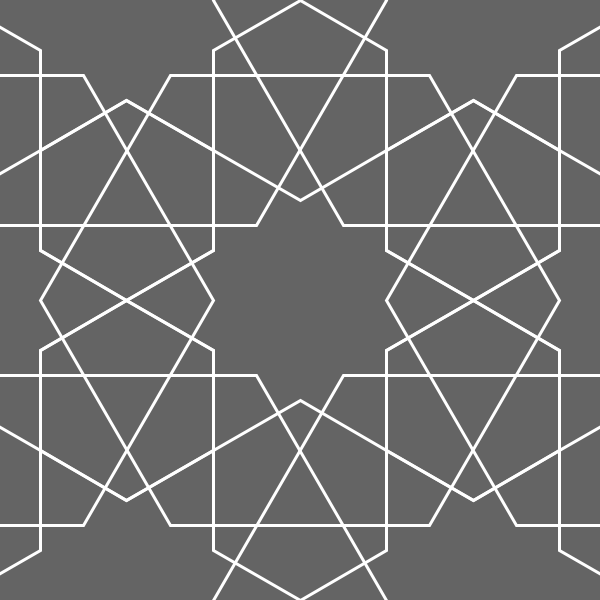
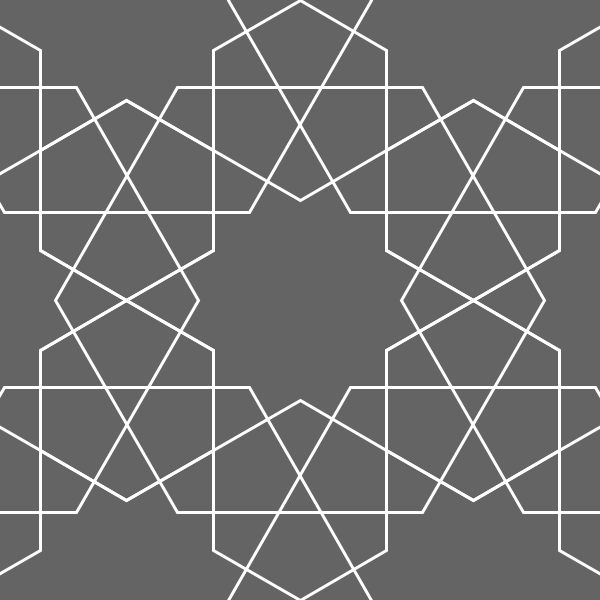
update 26

Changed region(s): [[0.0, 0.0, 1.0, 1.0]]

diff --git a/2024/sketch_2024_08_26/008/008.py b/2024/sketch_2024_08_26/008/008.py
@@ -12,22 +12,16 @@ def draw():
     #print(RU := mouse_x, R := mouse_y)
     RU = R = 200
     r = R * sqrt(3) / 2
-    rbh =  r * sqrt(2) 
-#    print(rbh)
-#     stroke(255, 60)
-#     circle(300, 300, rbh)
-#     circle(300, 300, rbh - 43)
-    stroke(255)
     unit(300, 300, RU)
     unit(300 + r * 2, 300, RU)
     unit(300 - r * 2, 300, RU)
-    hexagon(300 + r, 300 - R * 3 / 2, rbh, False)
-    hexagon(300 - r, 300 - R * 3 / 2, rbh, False)
-    hexagon(300 + r, 300 + R * 3 / 2, rbh, False)
-    hexagon(300 - r, 300 + R * 3 / 2, rbh, False)
-    hexagon(300, 300, rbh, False)
-    hexagon(300 + r * 2, 300, rbh, False)
-    hexagon(300 - r * 2, 300, rbh, False)
+    hexagon(300 + r, 300 - R * 3 / 2, r * 3 / 2, False)
+    hexagon(300 - r, 300 - R * 3 / 2, r * 3 / 2, False)
+    hexagon(300 + r, 300 + R * 3 / 2, r * 3 / 2, False)
+    hexagon(300 - r, 300 + R * 3 / 2, r * 3 / 2, False)
+    hexagon(300, 300, r * 3 / 2, False)
+    hexagon(300 + r * 2, 300, r * 3 / 2, False)
+    hexagon(300 - r * 2, 300, r * 3 / 2, False)
 
 
 
@@ -49,10 +43,7 @@ def hex_points(x, y, cr, pointy=True):
            for i in range(6)]
 
 def key_pressed():
-    if key == 'S':
-        save_snapshot_and_code()
-    elif key == 's':
-        save(__file__[:-3]+'.png')
+    save_snapshot_and_code()
     
 def save_snapshot_and_code():
     import shutil

diff --git a/2024/sketch_2024_08_26/009/009.py b/2024/sketch_2024_08_26/009/009.py
@@ -12,20 +12,17 @@ def draw():
     #print(RU := mouse_x, R := mouse_y)
     RU = R = 200
     r = R * sqrt(3) / 2
-    rbh =  r * sqrt(2) 
-#    print(rbh)
-#     stroke(255, 60)
-#     circle(300, 300, rbh)
-#     circle(300, 300, rbh - 43)
-    stroke(255)
+    rbh =  r * sqrt(3) / 4 #r * 3 / 2
     unit(300, 300, RU)
     unit(300 + r * 2, 300, RU)
     unit(300 - r * 2, 300, RU)
+    stroke(0, 255, 0)
     hexagon(300 + r, 300 - R * 3 / 2, rbh, False)
     hexagon(300 - r, 300 - R * 3 / 2, rbh, False)
     hexagon(300 + r, 300 + R * 3 / 2, rbh, False)
     hexagon(300 - r, 300 + R * 3 / 2, rbh, False)
-    hexagon(300, 300, rbh, False)
+    stroke(255, 0, 0)
+    hexagon(300, 300, r * 3 / 2, False)
     hexagon(300 + r * 2, 300, rbh, False)
     hexagon(300 - r * 2, 300, rbh, False)
 
@@ -49,10 +46,7 @@ def hex_points(x, y, cr, pointy=True):
            for i in range(6)]
 
 def key_pressed():
-    if key == 'S':
-        save_snapshot_and_code()
-    elif key == 's':
-        save(__file__[:-3]+'.png')
+    save_snapshot_and_code()
     
 def save_snapshot_and_code():
     import shutil

diff --git a/2024/sketch_2024_08_26/010/010.py b/2024/sketch_2024_08_26/010/010.py
@@ -12,20 +12,17 @@ def draw():
     #print(RU := mouse_x, R := mouse_y)
     RU = R = 200
     r = R * sqrt(3) / 2
-    rbh =  r * sqrt(2) 
-#    print(rbh)
-#     stroke(255, 60)
-#     circle(300, 300, rbh)
-#     circle(300, 300, rbh - 43)
-    stroke(255)
+    rbh =  r * sqrt(3) / 4 #r * 3 / 2
     unit(300, 300, RU)
     unit(300 + r * 2, 300, RU)
     unit(300 - r * 2, 300, RU)
+    stroke(0, 255, 0)
     hexagon(300 + r, 300 - R * 3 / 2, rbh, False)
     hexagon(300 - r, 300 - R * 3 / 2, rbh, False)
     hexagon(300 + r, 300 + R * 3 / 2, rbh, False)
     hexagon(300 - r, 300 + R * 3 / 2, rbh, False)
-    hexagon(300, 300, rbh, False)
+    stroke(255, 0, 0)
+    hexagon(300, 300, r * 3 / 2, False)
     hexagon(300 + r * 2, 300, rbh, False)
     hexagon(300 - r * 2, 300, rbh, False)
 
@@ -49,10 +46,7 @@ def hex_points(x, y, cr, pointy=True):
            for i in range(6)]
 
 def key_pressed():
-    if key == 'S':
-        save_snapshot_and_code()
-    elif key == 's':
-        save(__file__[:-3]+'.png')
+    save_snapshot_and_code()
     
 def save_snapshot_and_code():
     import shutil

diff --git a/2024/sketch_2024_08_26/011/011.py b/2024/sketch_2024_08_26/011/011.py
@@ -12,11 +12,11 @@ def draw():
     #print(RU := mouse_x, R := mouse_y)
     RU = R = 200
     r = R * sqrt(3) / 2
-    rbh =  r * sqrt(2) 
-#    print(rbh)
-#     stroke(255, 60)
-#     circle(300, 300, rbh)
-#     circle(300, 300, rbh - 43)
+    rbh =  r * sqrt(2)#mouse_x
+    print(rbh)
+    stroke(255, 60)
+    circle(300, 300, rbh)
+    circle(300, 300, rbh - 43)
     stroke(255)
     unit(300, 300, RU)
     unit(300 + r * 2, 300, RU)
@@ -49,10 +49,7 @@ def hex_points(x, y, cr, pointy=True):
            for i in range(6)]
 
 def key_pressed():
-    if key == 'S':
-        save_snapshot_and_code()
-    elif key == 's':
-        save(__file__[:-3]+'.png')
+    save_snapshot_and_code()
     
 def save_snapshot_and_code():
     import shutil

diff --git a/2024/sketch_2024_08_24/circles.py b/2024/sketch_2024_08_24/circles.py
@@ -1,0 +1,15 @@
+
+
+def setup():
+    size(500, 500)
+    d = 10
+    vezes = 50
+    for i in range(vezes):  # 0, 1, ... vezes - 1
+        x = i * d + d / 2
+        circle(x, 100, d)
+        line(x, 100, x, 400)
+    for i in range(vezes):  # 0, 1, ... vezes - 1
+        x = i * d + d / 2
+        line(x, 100, x * 2, 400)
+    save('saida.png')    
+  
